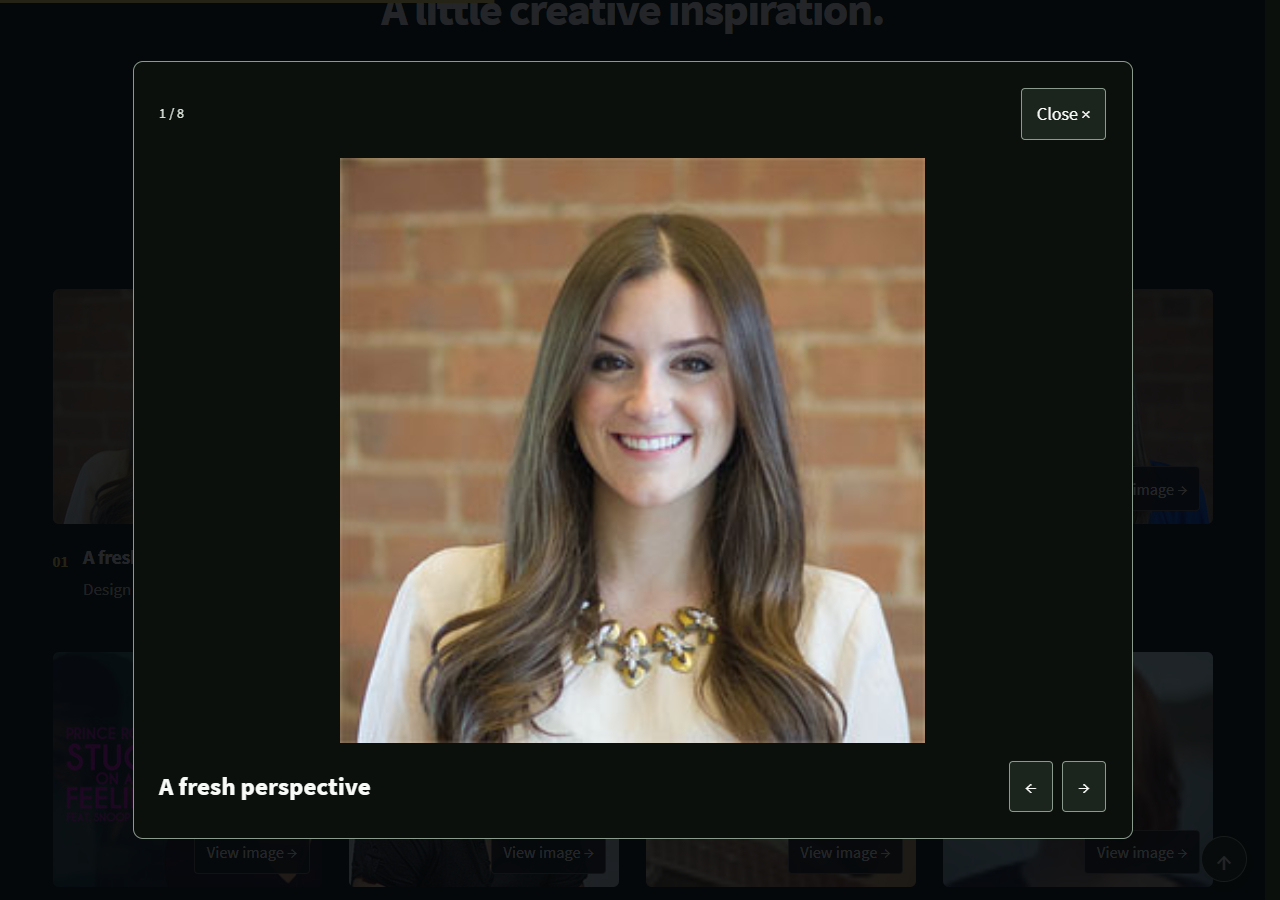
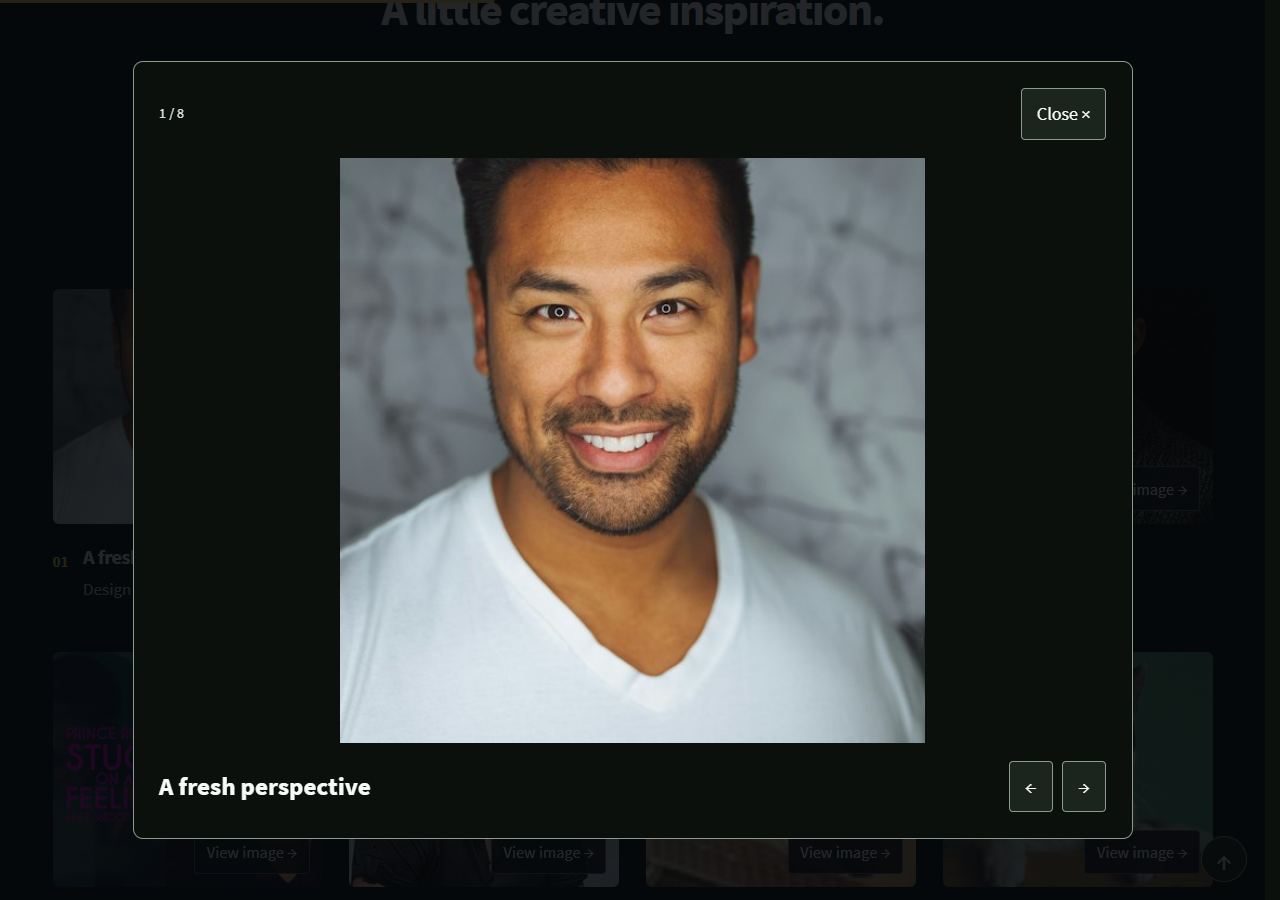
Replace female portrait assets with male and animal photos and refresh README screenshots.

Changed region(s): [[0.25, 0.1556, 0.75, 0.84], [0.9062, 0.56, 0.9375, 0.5911], [0.0625, 0.56, 0.0938, 0.5911]]

diff --git a/index.html b/index.html
@@ -438,21 +438,21 @@
             <p class="eyebrow">The people behind the pixels</p>
             <h2>Meet the team.</h2>
             <p>
-              Introducing the creative faces featured in the original template.
+              Introducing the creative team featured in this front-end study.
             </p>
           </div>
           <div class="team-grid">
             <article class="person">
               <img
                 src="img/work%201.jpg"
-                alt="Ruth Woods"
+                alt="Adam Brooks"
                 width="68"
                 height="68"
                 loading="lazy"
                 decoding="async"
                 class=""
               />
-              <h3>Ruth Woods</h3>
+              <h3>Adam Brooks</h3>
               <p class="role">UI Designer</p>
               <p>
                 A love of simple ideas, thoughtful details, and work that feels
@@ -479,14 +479,14 @@
             <article class="person">
               <img
                 src="img/work%203.jpg"
-                alt="Little Hearts"
+                alt="Leo Park"
                 width="257"
                 height="257"
                 loading="lazy"
                 decoding="async"
                 class=""
               />
-              <h3>Little Hearts</h3>
+              <h3>Leo Park</h3>
               <p class="role">UI Designer</p>
               <p>
                 A love of simple ideas, thoughtful details, and work that feels
